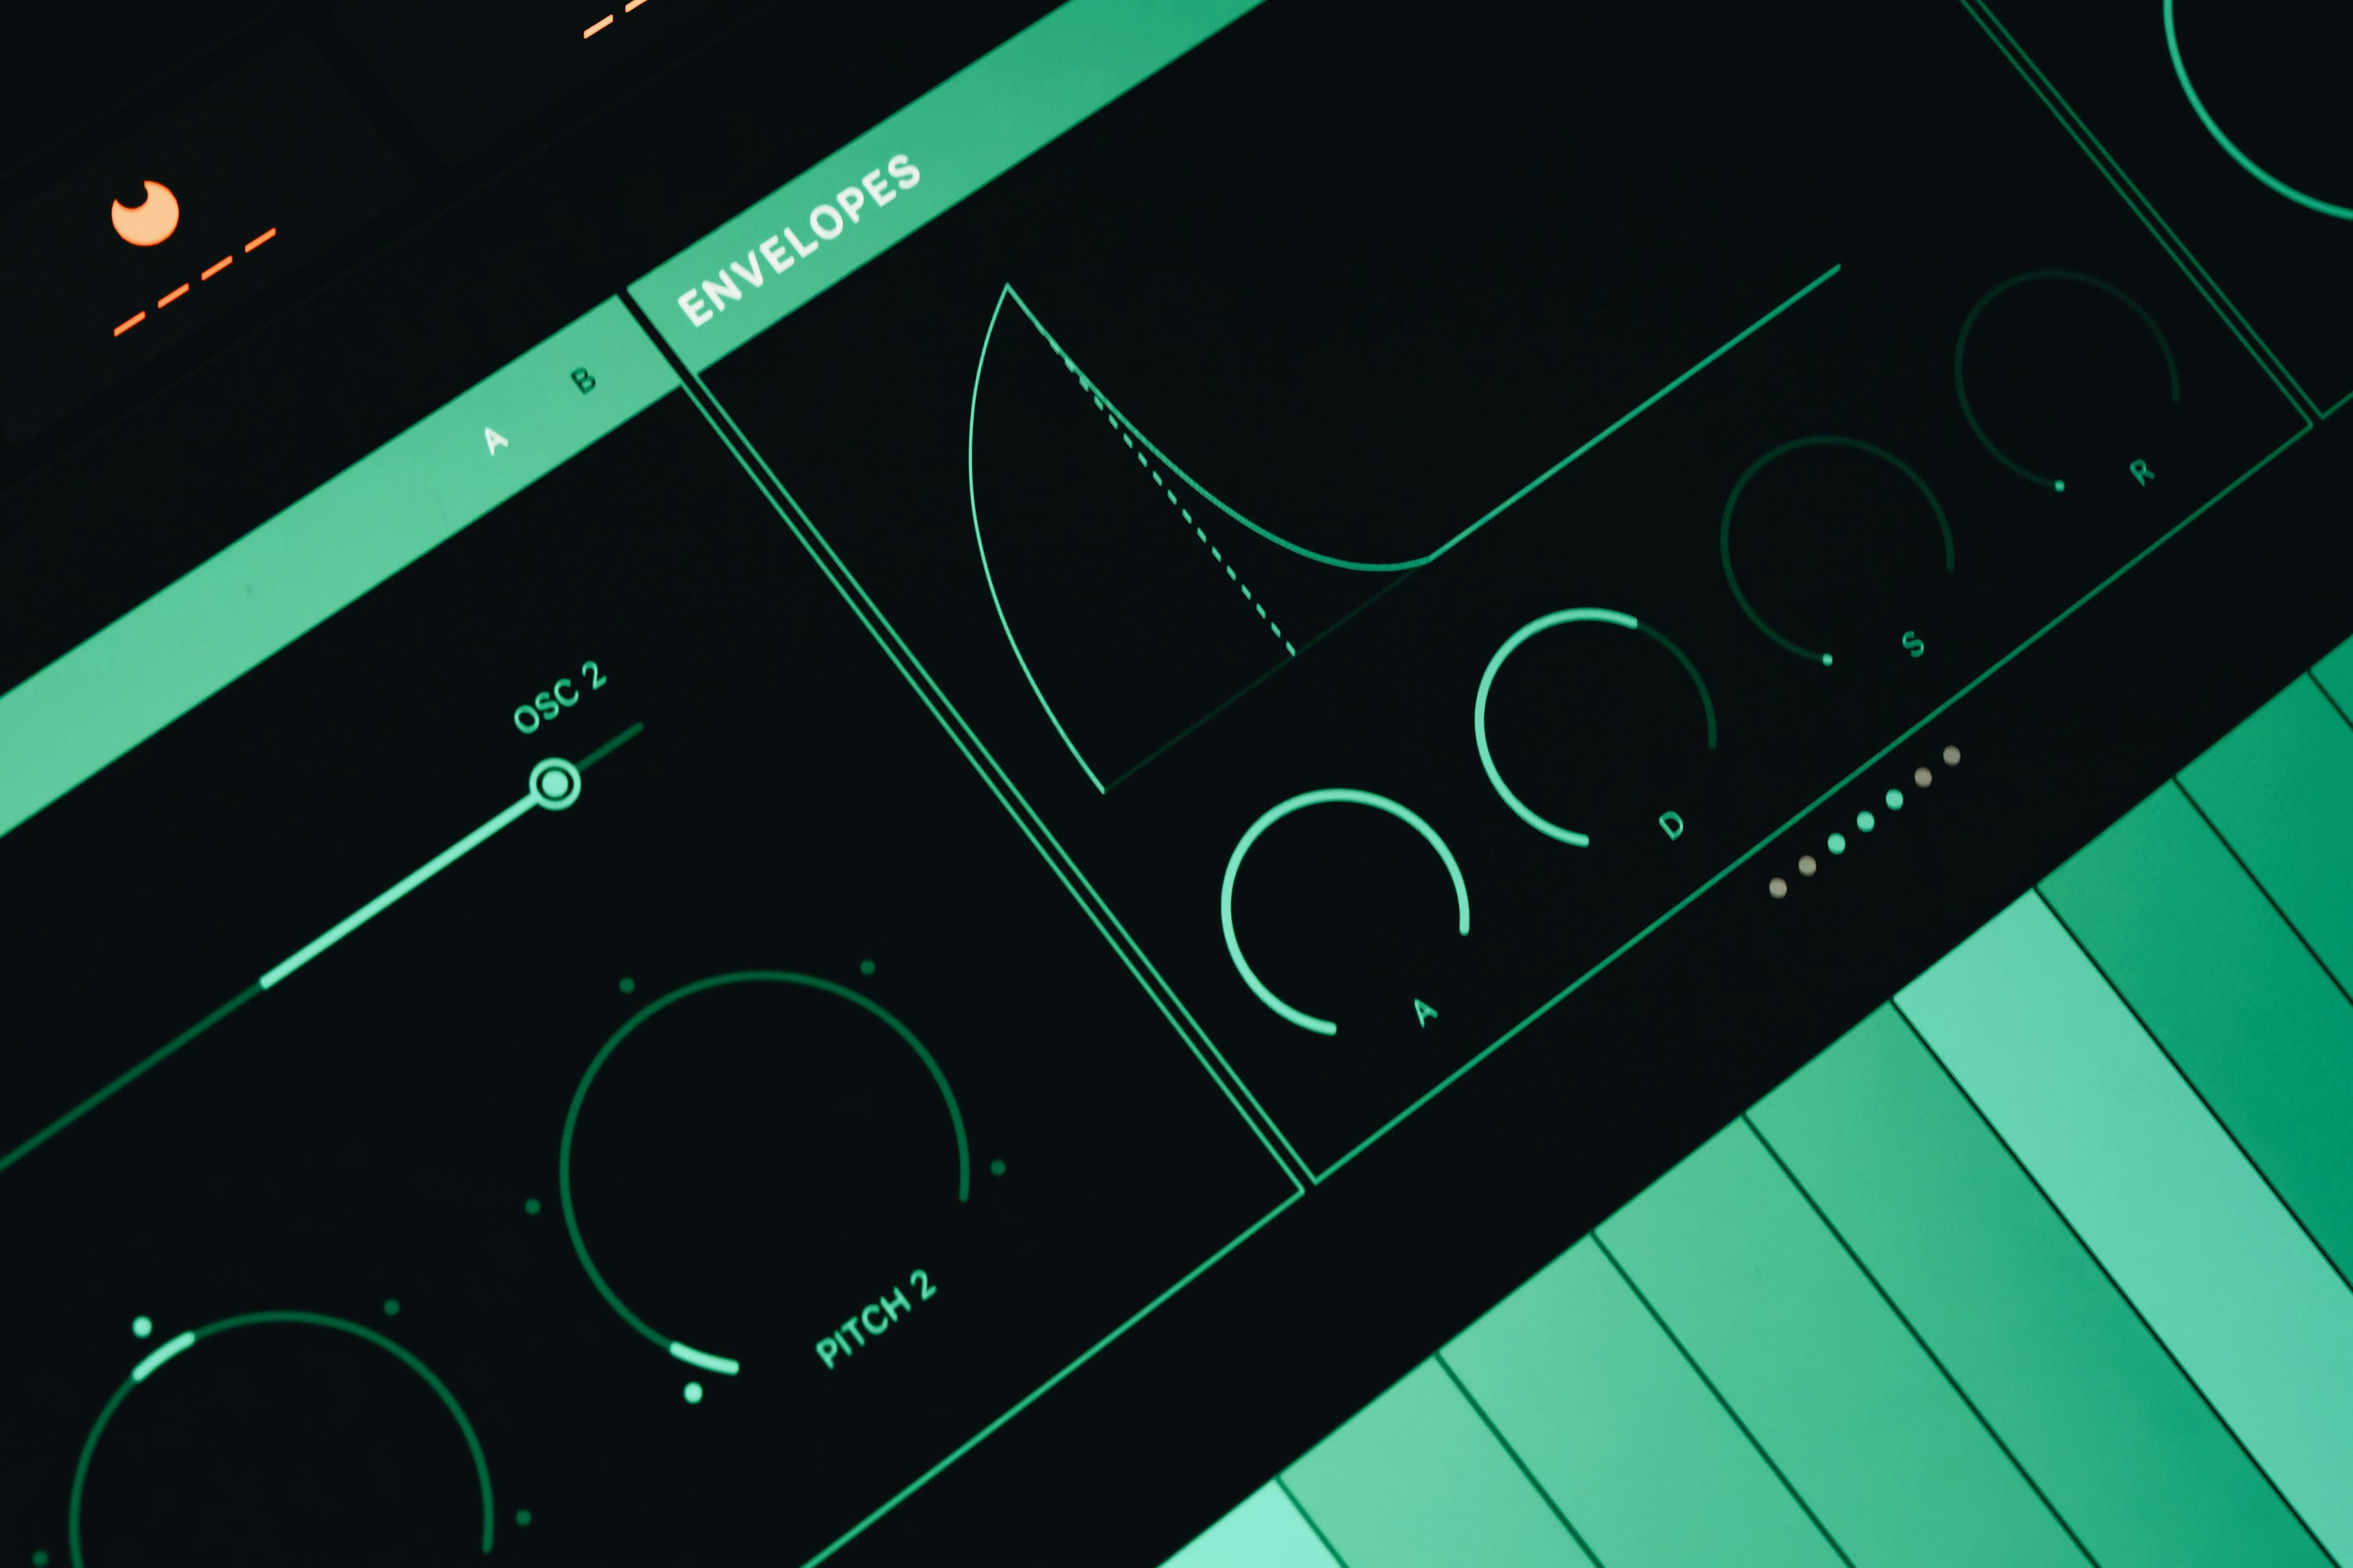
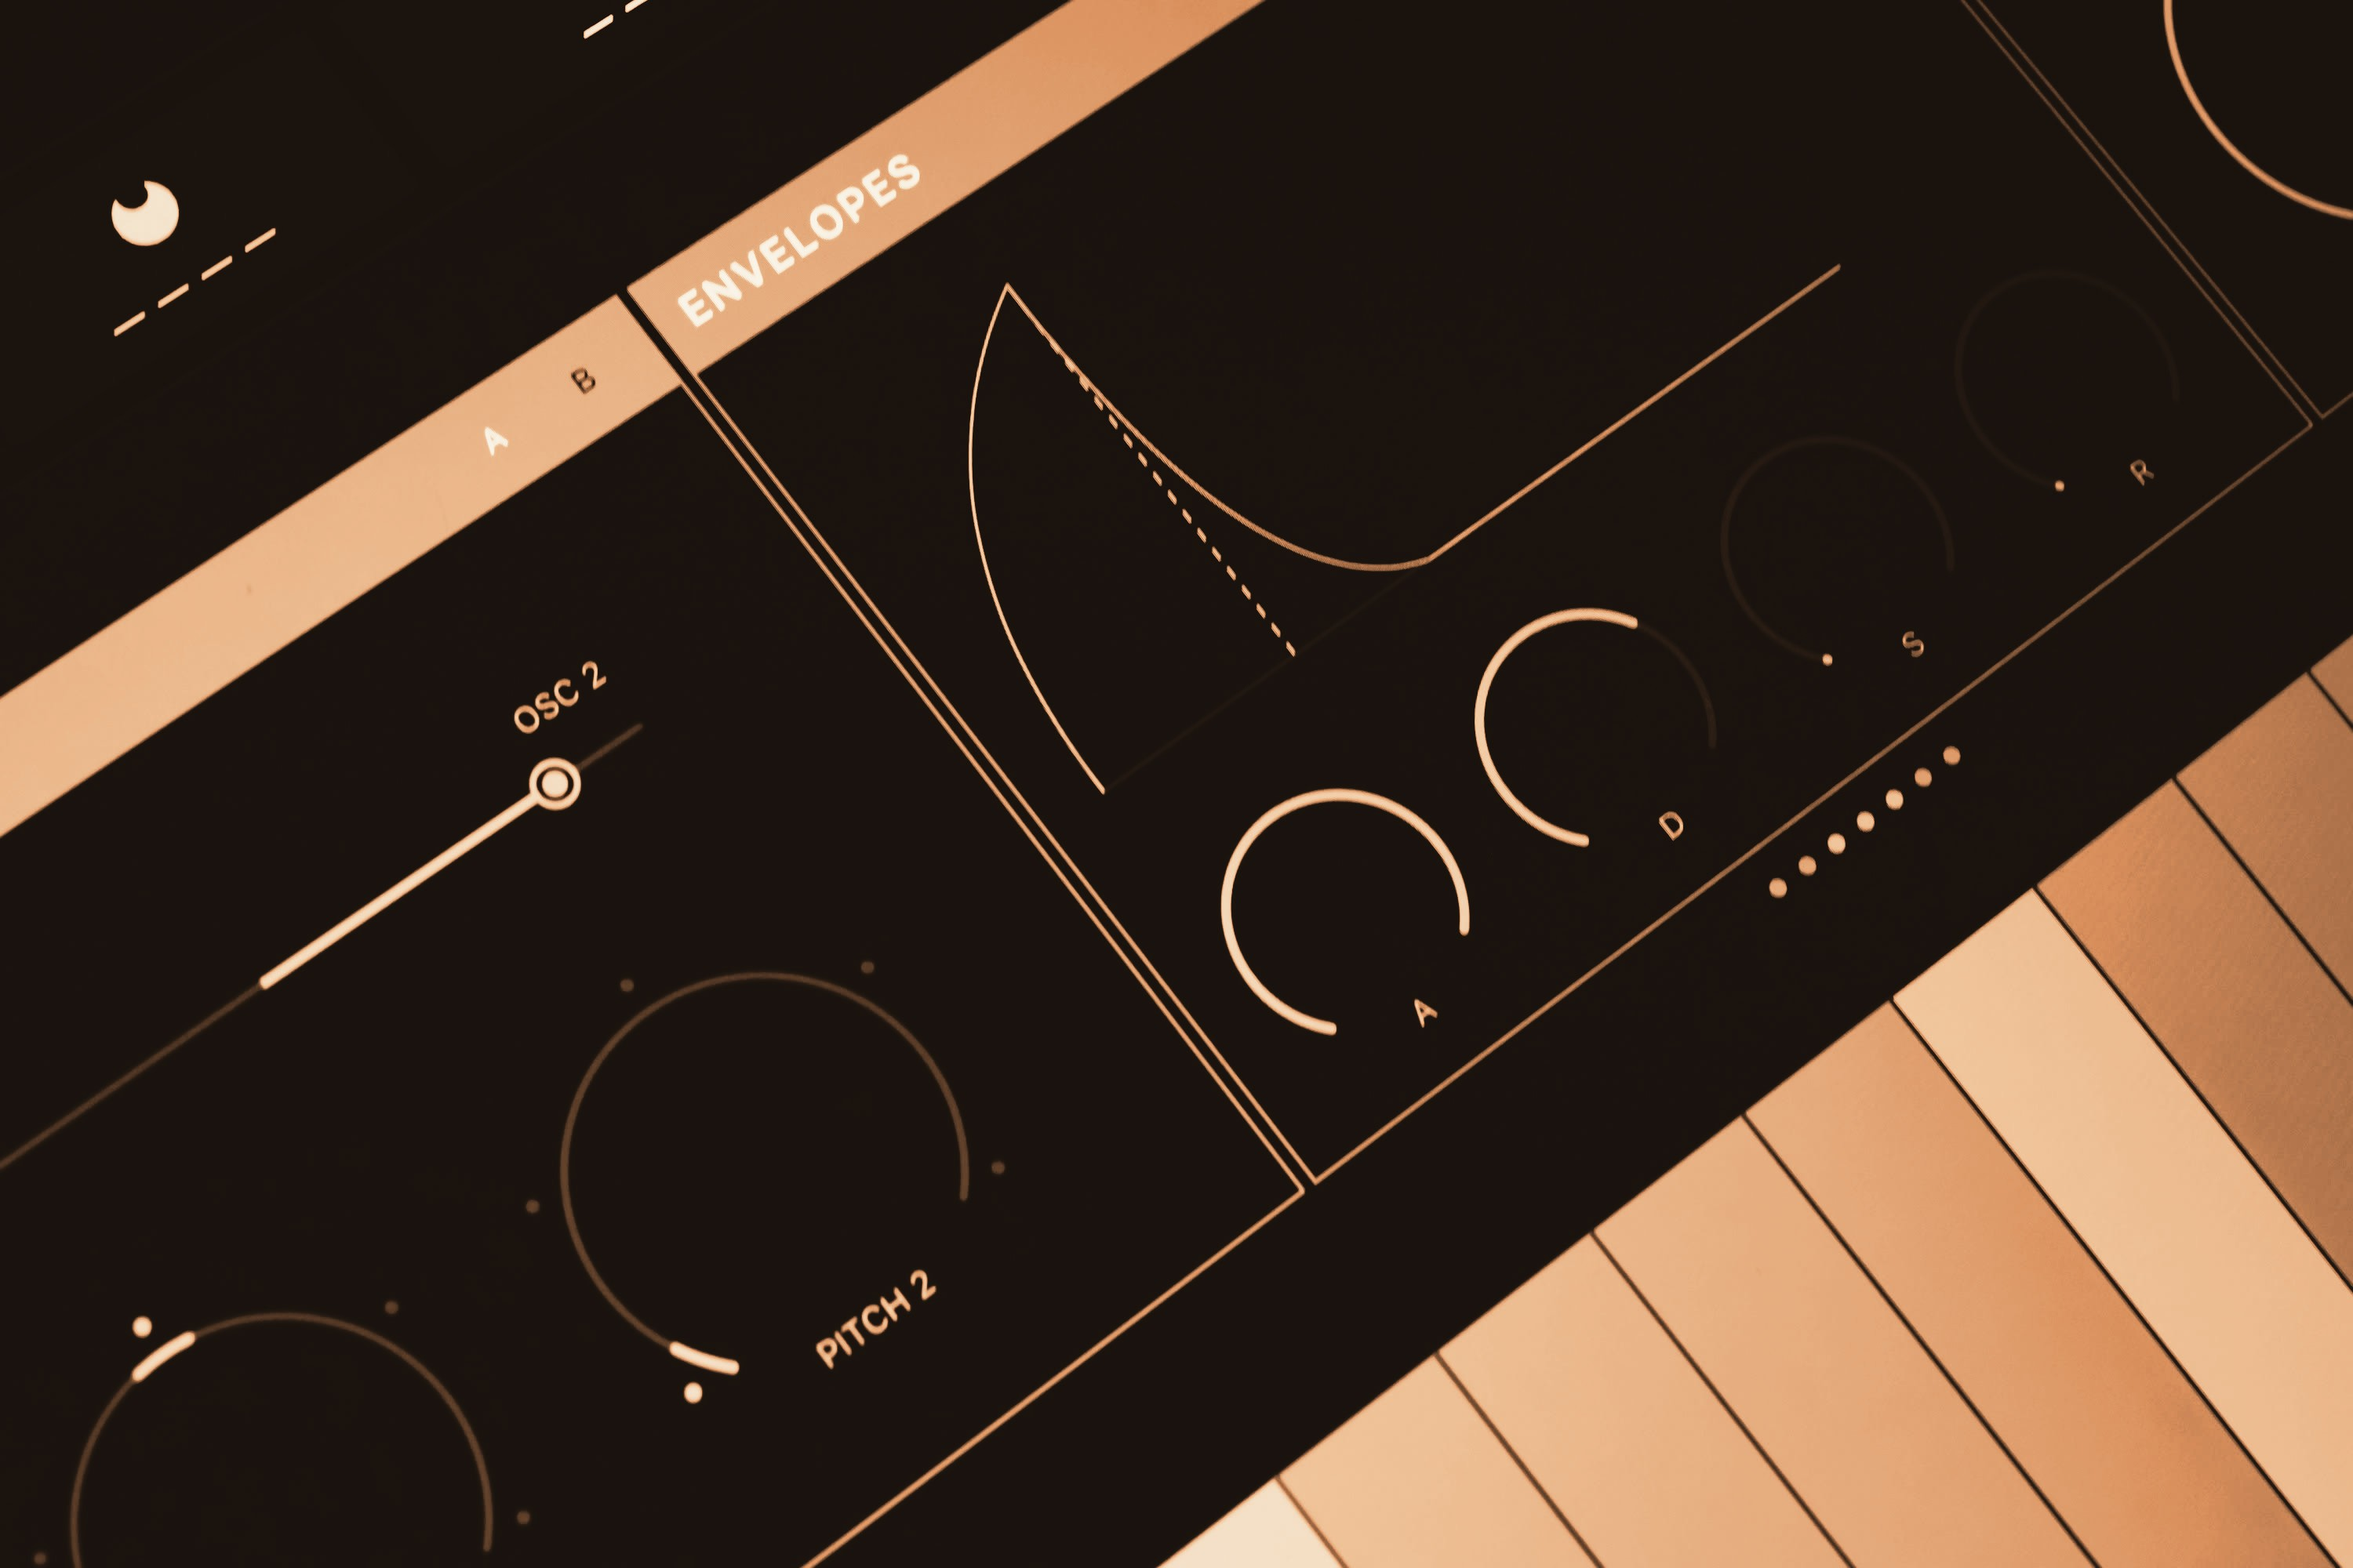
Phase 5: drop the green, cream and peach palette
- s05 photo recoloured from green to cream/light orange (luminance
  gradient map); green original kept in seed/backup
- Footer map retinted with the same gradient map; green version in
  seed/backup
- $color-accent-secondary is now peach (#e8b48a) instead of green
- CLAUDE.md and credits notes updated for the lilac + cream/orange palette

diff --git a/static/scss/abstracts/_variables.scss b/static/scss/abstracts/_variables.scss
@@ -23,7 +23,7 @@ $color-line: #707070;           // borders, dividers and link underlines
 $color-overlay-light: rgba(255, 255, 255, 0.25);
 $color-banner-bg: #eeeae6;      // cookie banner
 $color-accent: #a99cff;         // lilac of the logo/favicon and the duotone photos (footer map pin)
-$color-accent-secondary: #6fd6ac; // green of the s05 screen and the footer map (hover of the footer links and social icons)
+$color-accent-secondary: #e8b48a; // peach, in tune with the s05 screen and the footer map, soft on white (hover of the footer links and social icons)
 
 $color-scrollbar-track: rgba(222, 222, 222, 0.25);
 $color-scrollbar-thumb: rgba(0, 0, 0, 0.4);

diff --git a/CLAUDE.md b/CLAUDE.md
@@ -80,19 +80,20 @@ Work **one phase at a time**. The user validates each phase before moving on. Do
 
 #### Content review status
 
-- ✅ Approved: s01 cover (white macro keypad with aluminium knobs, abstract and soft-focus; mobile = vertical crop centred on the device; photo at 75% on load, fading to 45% when the black pixel logo rises), s10 (grey Elektron Model:Cycles on wood in window light), s09 photo (top view of keyboards and a mixer: Korg wavestate, Moog Grandmother, Zoom mixer; navy→lilac duotone like s02, then contrast 0.85 and brightness 1.3 baked in; vignettes still pending), s14, s17, s07 gallery, s12 gallery (slot 1 = Pocket Operator KO on speckled white), s08 (JX-08 split into two sharp crops), s11 (Elektron Digitakt on a white table, cropped, background curved to pure white), logo and favicon, s13 (small home studio with black walls, wood trim, a mixing desk and a window onto green trees, in warm light), s02 (TR-808 close-up as a navy→lilac duotone, whole width of the photo, top cropped (y 300–1500 of 2000×1500) so fewer light labels show, with **white** title and text), s05 (green ADSR envelope screen, abstract, dark, unfaded, with **white** text), s16 (vintage VU meters and tape-deck knobs, landscape photo cropped to the column by object-fit), s15 (left: blue-lit SP-404 with the **white** "Beep / Boop" title; right: Zoom H6 recorder).
+- ✅ Approved: s01 cover (white macro keypad with aluminium knobs, abstract and soft-focus; mobile = vertical crop centred on the device; photo at 75% on load, fading to 45% when the black pixel logo rises), s10 (grey Elektron Model:Cycles on wood in window light), s09 photo (top view of keyboards and a mixer: Korg wavestate, Moog Grandmother, Zoom mixer; navy→lilac duotone like s02, then contrast 0.85 and brightness 1.3 baked in; vignettes still pending), s14, s17, s07 gallery, s12 gallery (slot 1 = Pocket Operator KO on speckled white), s08 (JX-08 split into two sharp crops), s11 (Elektron Digitakt on a white table, cropped, background curved to pure white), logo and favicon, s13 (small home studio with black walls, wood trim, a mixing desk and a window onto green trees, in warm light), s02 (TR-808 close-up as a navy→lilac duotone, whole width of the photo, top cropped (y 300–1500 of 2000×1500) so fewer light labels show, with **white** title and text), s05 (ADSR envelope screen, abstract, dark, unfaded, with **white** text; recoloured from green to cream/light orange with a luminance gradient map #120e0b → #2a1d14 → #d98f5c → #f0c49a → #f5ead7 → #fbf7ef, green original in `seed/backup/adsr-screen-green.jpg`), s16 (vintage VU meters and tape-deck knobs, landscape photo cropped to the column by object-fit), s15 (left: blue-lit SP-404 with the **white** "Beep / Boop" title; right: Zoom H6 recorder).
 - ✅ Footer bottom strip (`seed/images/footer-bottom.jpg`): the s01 cover photo again (keys, frame and big knob), vertical centre band y 455–1375 of the 3000×2000 original, light blur (1.5 px) and 35% fade toward white, so the page ends with the object it starts with.
 
 #### Still to do (phase 5)
 
 - **s04 video** (and the optional s10 video): generate with `ffmpeg` test sources, without the timecode overlay. s04 currently shows a colour-bars placeholder.
 - **s09 vignettes:** simple SVG pictograms about synthesis theory, not photos. See "s09 vignettes plan" below.
-- ✅ **Footer:** address text "A quiet street in Ciutat Vella, Barcelona" (ES/EN), `share-your@synth-dreams.example`, GitHub/LinkedIn/YouTube (Pinterest and Wikipedia dropped). Map overlay = Cerdà's 1859 plan (public domain), cropped around Ciutat Vella, inverted and tinted with the s05 greens (`seed/images/footer-map.jpg`). Closing photo in a light lilac duotone (#8a7fe0 → #f6f4ff): lilac and green are the site's two accents. Footer accents: map pin `$color-accent` (lilac); the map link, email link and social icons turn `$color-accent-secondary` (green) on hover; the header logo sits on the lilac strip above the legal links (its lilac icon blending in is intended).
+- ✅ **Footer:** address text "A quiet street in Ciutat Vella, Barcelona" (ES/EN), `share-your@synth-dreams.example`, GitHub/LinkedIn/YouTube (Pinterest and Wikipedia dropped). Map overlay = Cerdà's 1859 plan (public domain), cropped around Ciutat Vella, inverted and tinted with the s05 warm tones (`seed/images/footer-map.jpg`, same gradient map as s05; green version in `seed/backup/footer-map-green.jpg`). Closing photo in a light lilac duotone (#8a7fe0 → #f6f4ff): lilac and cream/orange are the site's two accents. Footer accents: map pin `$color-accent` (lilac); the map link, email link and social icons turn `$color-accent-secondary` (peach `#e8b48a`) on hover; the header logo sits on the lilac strip above the legal links (its lilac icon blending in is intended).
 - **Credits:** finish `seed/credits-todo.md` (some entries still say "credit from earlier list") and show them in the footer credits block.
 - **Texts:** every block still has "Bip bup" placeholder text, ES and EN.
 - **`seed_demo`:** load everything from `seed/` on a fresh clone (unique gallery `the_order`).
 - **Mobile check:** s09, s11, s14, cover/logo and the new photos.
 - Header readability over dark photos was raised and never settled; re-check it on s02 (TR-808) and s05.
+- **Palette shift (2026-11-10):** the author drops the green; the palette is lilac plus cream and light orange (the s01 cover sums it up). Done: s05 photo, footer map tint and `$color-accent-secondary` (now peach `#e8b48a`). No green left.
 
 #### s09 vignettes plan (groups 1, 2 and 3 built)
 
@@ -100,7 +101,7 @@ Work **one phase at a time**. The user validates each phase before moving on. Do
 
 Each vignette is a frame (square, rectangle or circle) holding a **pictogram of the concept** (usually obvious), with the explanation beside it. The block explains basic **synthesis theory** in three groups.
 
-- **Style:** line drawings only, strokes in the original black/grey (`#111` or the muted text grey), same stroke weight in every pictogram, no fills. No colour for now; if needed later, only the theme accents (green `$color-accent-secondary`, maybe lilac), never colourful. One SVG file per pictogram in `seed/images/vignettes/`, loaded into the existing `Vignette.image` field.
+- **Style:** line drawings only, strokes in the original black/grey (`#111` or the muted text grey), same stroke weight in every pictogram, no fills. No colour for now; if needed later, only the theme accents (peach `$color-accent-secondary`, maybe lilac), never colourful. One SVG file per pictogram in `seed/images/vignettes/`, loaded into the existing `Vignette.image` field.
 - **Drawing specs (keep group 3 consistent):** hand-written SVG (no build step), `fill="none"`, round caps and joins; main line `stroke="#111" stroke-width="2"`, secondary lines (zero lines, guides, back layers) `stroke="#707070" stroke-width="1"`, dashed guides `stroke-dasharray="3 4"`; every stroke has `vector-effect="non-scaling-stroke"` so all drawings keep the same weight at any size. No `<text>` (page fonts do not reach an SVG inside `<img>`): numbers and signs are drawn as strokes. Square pictograms use a 200×200 viewBox with the drawing kept inside the circle/frame margins.
 - **Data:** groups 1, 2 and 3 (kind, image, ES/EN texts) are saved in `seed/texts/s09-vignettes.json`, the source for `seed_demo` (running `seed_dummy` again would wipe them from the dev DB).
 - ✅ **Group 1 · Sound sources:** three ways of making sound, each a line drawing with its name below (`Vignette.text1`, centred, muted): *simple waves* (a sine, 1.8 cycles, `wave-sine.svg`), *wavetables* (a perspective stack of 11 single-cycle frames: a clean sine in black at the front, harmonics growing and drifting towards the back in grey, dashed depth line, `source-wavetable.svg`) and *noise* (`wave-noise.svg`). Black 2 px main stroke, grey 1 px secondary lines. Loose organic layout: every offset (horizontal and vertical) and width is a % of the column, so it scales the same on every screen. Each drawing fades in on its own, scrubbed with the scroll (`.js-floating-item`). The earlier triangle/square/sawtooth drawings are in `seed/backup/vignettes/`.
